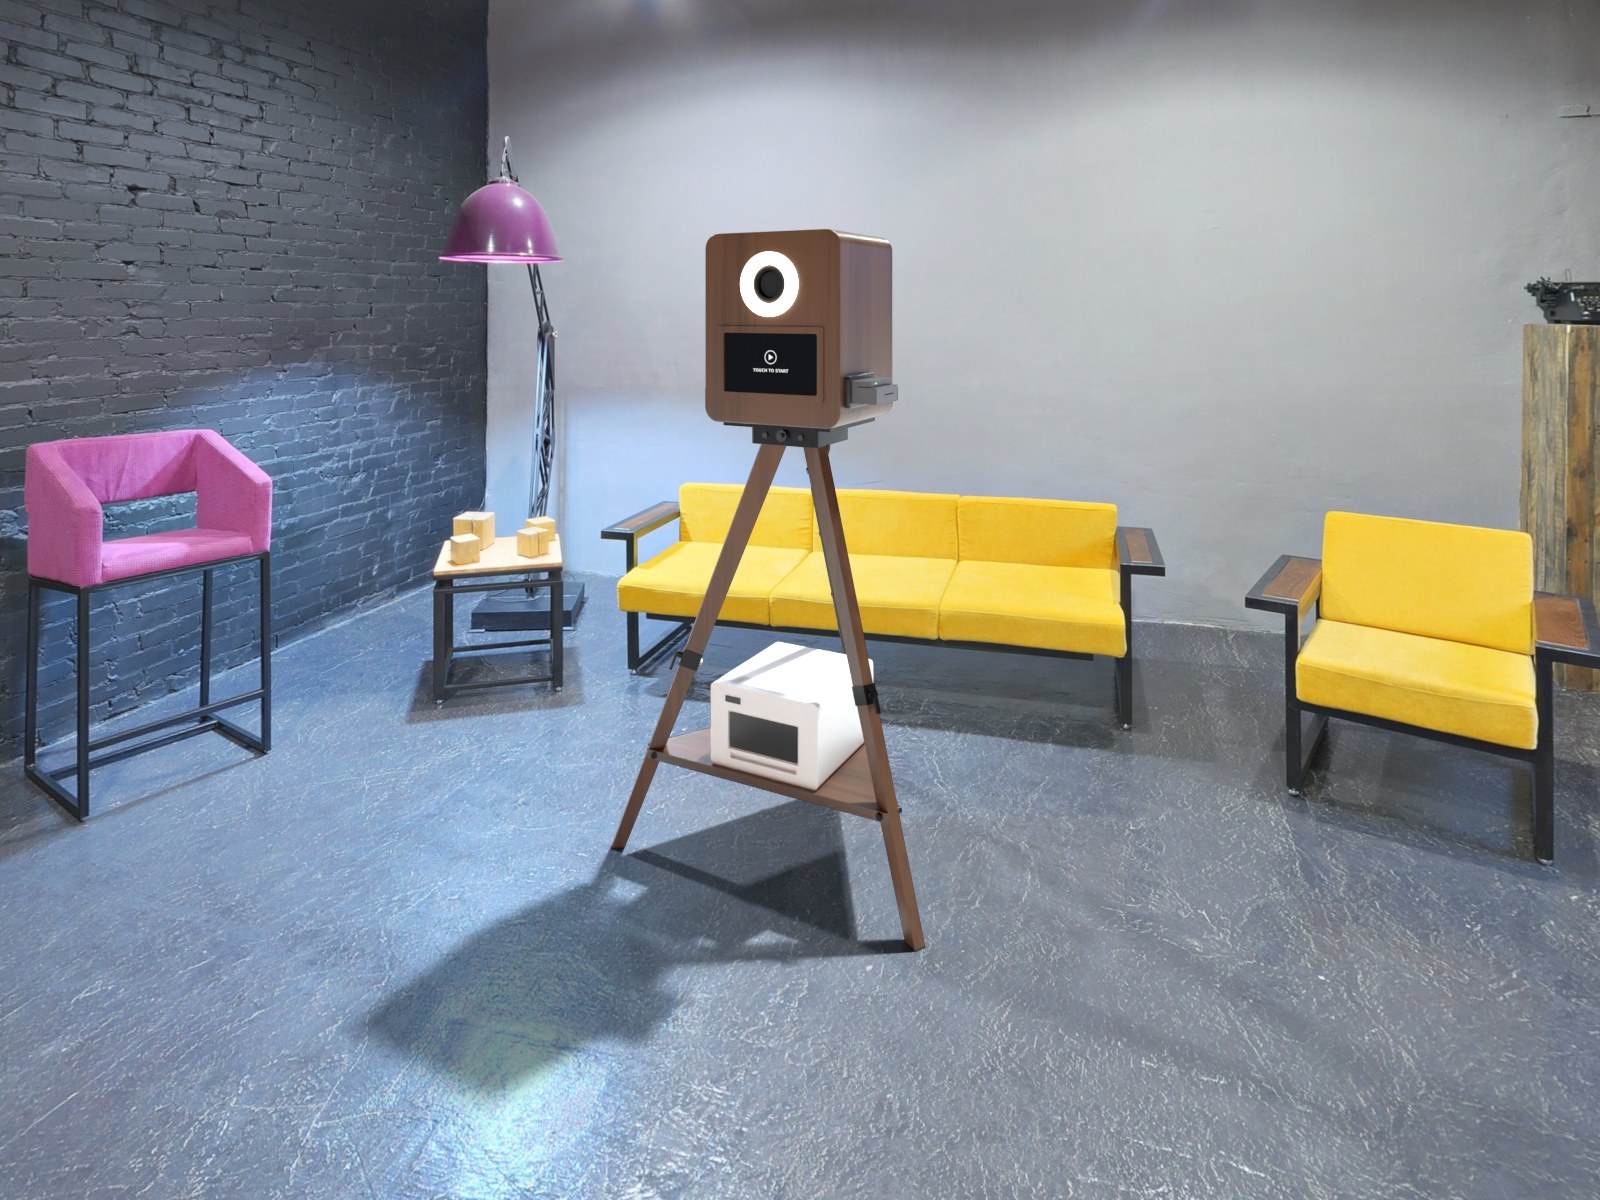
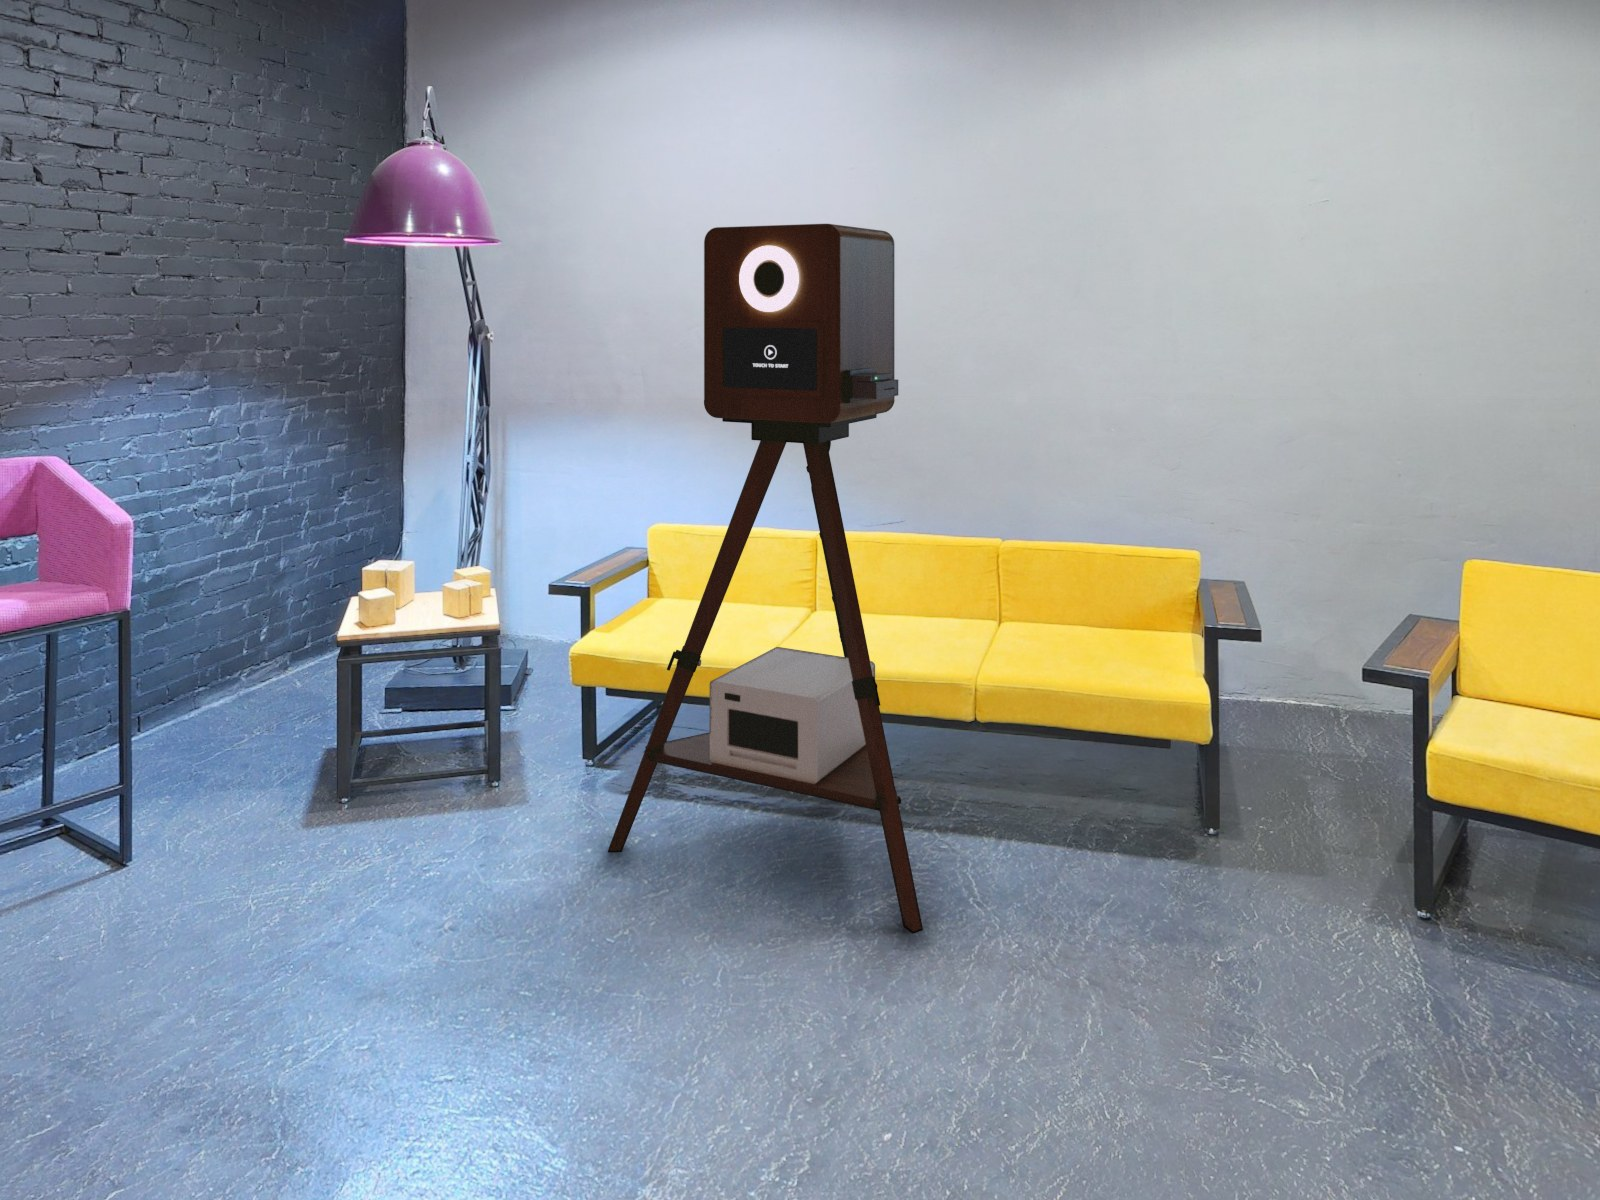
매장 설치 예시(연출 렌더) 최종본 6종 반영 + 홈 띠 카페·부티크·웨딩
- 합성 파이프라인 v3(HDR↔사진 톤 LUT·접지 그림자·경계 띠 보정)로 다시 만든 6장으로 교체
- 부티크·팝업 예시 추가(선반형 2장), 홈 'NEW 목재 포토키오스크' 띠는 삼각대형 2 + 선반형 1
- w800 파생본 해시 갱신, 낡은 파생본 제거

Claude-Session: https://claude.ai/code/session_01HGw79DZARAGa3xCFQSLrQB

diff --git a/products/photo-kiosk.html b/products/photo-kiosk.html
@@ -138,10 +138,12 @@
     <div><span class="idxlabel">설치 예시</span><h2>이런 매장에 이렇게 놓입니다</h2><p>실제 설치 사진이 아닙니다. 공개 실내 사진(CC0)에 포토키오스크 3D 모델을 합성한 연출 이미지로, 매장 분위기에 놓였을 때의 느낌을 보여 드립니다.</p></div>
   </div>
   <div class="pg-grid stg-grid" data-gallery="photo-kiosk-staged">
-    <a class="pg-item" href="../assets/images/covers/photo-kiosk_scene_cafe.jpg" data-w="1600" data-h="1200" data-caption="카페 · 설치 예시(연출 렌더)"><img src="../assets/images/covers/w800/photo-kiosk_scene_cafe-w800-cafd2b5a.jpg" srcset="../assets/images/covers/w800/photo-kiosk_scene_cafe-w800-cafd2b5a.jpg 800w, ../assets/images/covers/photo-kiosk_scene_cafe.jpg 1600w" sizes="(max-width:880px) 48vw, 300px" width="1600" height="1200" alt="카페 설치 예시 — 실내 사진에 포토키오스크 3D 모델을 합성한 연출 렌더(실제 설치 사진 아님)" loading="lazy" decoding="async"><span class="render-tag stg-tag" aria-hidden="true">연출 렌더</span><span class="pg-cap">카페 · 설치 예시(연출 렌더)</span></a>
-    <a class="pg-item" href="../assets/images/covers/photo-kiosk_scene_lounge.jpg" data-w="1600" data-h="1200" data-caption="뷰티숍·라운지 · 설치 예시(연출 렌더)"><img src="../assets/images/covers/w800/photo-kiosk_scene_lounge-w800-1667f8cd.jpg" srcset="../assets/images/covers/w800/photo-kiosk_scene_lounge-w800-1667f8cd.jpg 800w, ../assets/images/covers/photo-kiosk_scene_lounge.jpg 1600w" sizes="(max-width:880px) 48vw, 300px" width="1600" height="1200" alt="뷰티숍·라운지 설치 예시 — 실내 사진에 포토키오스크 3D 모델을 합성한 연출 렌더(실제 설치 사진 아님)" loading="lazy" decoding="async"><span class="render-tag stg-tag" aria-hidden="true">연출 렌더</span><span class="pg-cap">뷰티숍·라운지 · 설치 예시(연출 렌더)</span></a>
-    <a class="pg-item" href="../assets/images/covers/photo-kiosk_scene_lobby.jpg" data-w="1600" data-h="1200" data-caption="호텔 로비 · 설치 예시(연출 렌더)"><img src="../assets/images/covers/w800/photo-kiosk_scene_lobby-w800-646db793.jpg" srcset="../assets/images/covers/w800/photo-kiosk_scene_lobby-w800-646db793.jpg 800w, ../assets/images/covers/photo-kiosk_scene_lobby.jpg 1600w" sizes="(max-width:880px) 48vw, 300px" width="1600" height="1200" alt="호텔 로비 설치 예시 — 실내 사진에 포토키오스크 3D 모델을 합성한 연출 렌더(실제 설치 사진 아님)" loading="lazy" decoding="async"><span class="render-tag stg-tag" aria-hidden="true">연출 렌더</span><span class="pg-cap">호텔 로비 · 설치 예시(연출 렌더)</span></a>
-    <a class="pg-item" href="../assets/images/covers/photo-kiosk_scene_wedding.jpg" data-w="1600" data-h="1200" data-caption="웨딩 연회장 · 설치 예시(연출 렌더)"><img src="../assets/images/covers/w800/photo-kiosk_scene_wedding-w800-ee7f30a5.jpg" srcset="../assets/images/covers/w800/photo-kiosk_scene_wedding-w800-ee7f30a5.jpg 800w, ../assets/images/covers/photo-kiosk_scene_wedding.jpg 1600w" sizes="(max-width:880px) 48vw, 300px" width="1600" height="1200" alt="웨딩 연회장 설치 예시 — 실내 사진에 포토키오스크 3D 모델을 합성한 연출 렌더(실제 설치 사진 아님)" loading="lazy" decoding="async"><span class="render-tag stg-tag" aria-hidden="true">연출 렌더</span><span class="pg-cap">웨딩 연회장 · 설치 예시(연출 렌더)</span></a>
+    <a class="pg-item" href="../assets/images/covers/photo-kiosk_scene_cafe.jpg" data-w="1600" data-h="1200" data-caption="카페 · 설치 예시(연출 렌더)"><img src="../assets/images/covers/w800/photo-kiosk_scene_cafe-w800-08ebb0a8.jpg" srcset="../assets/images/covers/w800/photo-kiosk_scene_cafe-w800-08ebb0a8.jpg 800w, ../assets/images/covers/photo-kiosk_scene_cafe.jpg 1600w" sizes="(max-width:880px) 48vw, 300px" width="1600" height="1200" alt="카페 설치 예시 — 실내 사진에 포토키오스크 3D 모델을 합성한 연출 렌더(실제 설치 사진 아님)" loading="lazy" decoding="async"><span class="render-tag stg-tag" aria-hidden="true">연출 렌더</span><span class="pg-cap">카페 · 설치 예시(연출 렌더)</span></a>
+    <a class="pg-item" href="../assets/images/covers/photo-kiosk_scene_boutique.jpg" data-w="1600" data-h="1200" data-caption="부티크 포토존 · 설치 예시(연출 렌더)"><img src="../assets/images/covers/w800/photo-kiosk_scene_boutique-w800-e383c378.jpg" srcset="../assets/images/covers/w800/photo-kiosk_scene_boutique-w800-e383c378.jpg 800w, ../assets/images/covers/photo-kiosk_scene_boutique.jpg 1600w" sizes="(max-width:880px) 48vw, 300px" width="1600" height="1200" alt="부티크 포토존 설치 예시 — 실내 사진에 포토키오스크 3D 모델을 합성한 연출 렌더(실제 설치 사진 아님)" loading="lazy" decoding="async"><span class="render-tag stg-tag" aria-hidden="true">연출 렌더</span><span class="pg-cap">부티크 포토존 · 설치 예시(연출 렌더)</span></a>
+    <a class="pg-item" href="../assets/images/covers/photo-kiosk_scene_lounge.jpg" data-w="1600" data-h="1200" data-caption="뷰티숍·라운지 · 설치 예시(연출 렌더)"><img src="../assets/images/covers/w800/photo-kiosk_scene_lounge-w800-33a5f3b5.jpg" srcset="../assets/images/covers/w800/photo-kiosk_scene_lounge-w800-33a5f3b5.jpg 800w, ../assets/images/covers/photo-kiosk_scene_lounge.jpg 1600w" sizes="(max-width:880px) 48vw, 300px" width="1600" height="1200" alt="뷰티숍·라운지 설치 예시 — 실내 사진에 포토키오스크 3D 모델을 합성한 연출 렌더(실제 설치 사진 아님)" loading="lazy" decoding="async"><span class="render-tag stg-tag" aria-hidden="true">연출 렌더</span><span class="pg-cap">뷰티숍·라운지 · 설치 예시(연출 렌더)</span></a>
+    <a class="pg-item" href="../assets/images/covers/photo-kiosk_scene_lobby.jpg" data-w="1600" data-h="1200" data-caption="호텔 로비 · 설치 예시(연출 렌더)"><img src="../assets/images/covers/w800/photo-kiosk_scene_lobby-w800-4d01f178.jpg" srcset="../assets/images/covers/w800/photo-kiosk_scene_lobby-w800-4d01f178.jpg 800w, ../assets/images/covers/photo-kiosk_scene_lobby.jpg 1600w" sizes="(max-width:880px) 48vw, 300px" width="1600" height="1200" alt="호텔 로비 설치 예시 — 실내 사진에 포토키오스크 3D 모델을 합성한 연출 렌더(실제 설치 사진 아님)" loading="lazy" decoding="async"><span class="render-tag stg-tag" aria-hidden="true">연출 렌더</span><span class="pg-cap">호텔 로비 · 설치 예시(연출 렌더)</span></a>
+    <a class="pg-item" href="../assets/images/covers/photo-kiosk_scene_wedding.jpg" data-w="1600" data-h="1200" data-caption="웨딩 연회장 · 설치 예시(연출 렌더)"><img src="../assets/images/covers/w800/photo-kiosk_scene_wedding-w800-052205ae.jpg" srcset="../assets/images/covers/w800/photo-kiosk_scene_wedding-w800-052205ae.jpg 800w, ../assets/images/covers/photo-kiosk_scene_wedding.jpg 1600w" sizes="(max-width:880px) 48vw, 300px" width="1600" height="1200" alt="웨딩 연회장 설치 예시 — 실내 사진에 포토키오스크 3D 모델을 합성한 연출 렌더(실제 설치 사진 아님)" loading="lazy" decoding="async"><span class="render-tag stg-tag" aria-hidden="true">연출 렌더</span><span class="pg-cap">웨딩 연회장 · 설치 예시(연출 렌더)</span></a>
+    <a class="pg-item" href="../assets/images/covers/photo-kiosk_scene_popup.jpg" data-w="1600" data-h="1200" data-caption="팝업 행사장 · 설치 예시(연출 렌더)"><img src="../assets/images/covers/w800/photo-kiosk_scene_popup-w800-95041376.jpg" srcset="../assets/images/covers/w800/photo-kiosk_scene_popup-w800-95041376.jpg 800w, ../assets/images/covers/photo-kiosk_scene_popup.jpg 1600w" sizes="(max-width:880px) 48vw, 300px" width="1600" height="1200" alt="팝업 행사장 설치 예시 — 실내 사진에 포토키오스크 3D 모델을 합성한 연출 렌더(실제 설치 사진 아님)" loading="lazy" decoding="async"><span class="render-tag stg-tag" aria-hidden="true">연출 렌더</span><span class="pg-cap">팝업 행사장 · 설치 예시(연출 렌더)</span></a>
   </div>
 </div></section>
 <section class="pd-fit"><div class="wrap fit-grid">

diff --git a/index.html b/index.html
@@ -173,9 +173,9 @@
 <!-- GEN:home-kiosk-staged --><section class="h-kstage" id="kiosk-new" aria-labelledby="ksTitle"><div class="wrap">
   <div class="h-head"><div><span class="idxlabel">NEW · 목재 포토키오스크</span><h2 id="ksTitle">매장에 들이는 <i>포토키오스크</i></h2><p>진한 월넛 원목 헤드를 삼각대에 세우거나 카운터에 올려 씁니다. 아래 사진은 실제 설치 사진이 아니라, 매장 실내 사진에 3D 모델을 합성한 설치 예시(연출 렌더)입니다.</p></div><a class="h-link" href="products/photo-kiosk.html#staged">설치 예시 더 보기 →</a></div>
   <div class="ks-grid">
-    <figure class="ks-item"><img src="assets/images/covers/w800/photo-kiosk_scene_cafe-w800-cafd2b5a.jpg" srcset="assets/images/covers/w800/photo-kiosk_scene_cafe-w800-cafd2b5a.jpg 800w, assets/images/covers/photo-kiosk_scene_cafe.jpg 1600w" sizes="(max-width:880px) 48vw, 300px" width="1600" height="1200" alt="카페 설치 예시 — 실내 사진에 포토키오스크 3D 모델을 합성한 연출 렌더(실제 설치 사진 아님)" loading="lazy" decoding="async"><span class="render-tag" aria-hidden="true">연출 렌더</span><figcaption>카페 · 설치 예시(연출 렌더)</figcaption></figure>
-    <figure class="ks-item"><img src="assets/images/covers/w800/photo-kiosk_scene_lobby-w800-646db793.jpg" srcset="assets/images/covers/w800/photo-kiosk_scene_lobby-w800-646db793.jpg 800w, assets/images/covers/photo-kiosk_scene_lobby.jpg 1600w" sizes="(max-width:880px) 48vw, 300px" width="1600" height="1200" alt="호텔 로비 설치 예시 — 실내 사진에 포토키오스크 3D 모델을 합성한 연출 렌더(실제 설치 사진 아님)" loading="lazy" decoding="async"><span class="render-tag" aria-hidden="true">연출 렌더</span><figcaption>호텔 로비 · 설치 예시(연출 렌더)</figcaption></figure>
-    <figure class="ks-item"><img src="assets/images/covers/w800/photo-kiosk_scene_wedding-w800-ee7f30a5.jpg" srcset="assets/images/covers/w800/photo-kiosk_scene_wedding-w800-ee7f30a5.jpg 800w, assets/images/covers/photo-kiosk_scene_wedding.jpg 1600w" sizes="(max-width:880px) 48vw, 300px" width="1600" height="1200" alt="웨딩 연회장 설치 예시 — 실내 사진에 포토키오스크 3D 모델을 합성한 연출 렌더(실제 설치 사진 아님)" loading="lazy" decoding="async"><span class="render-tag" aria-hidden="true">연출 렌더</span><figcaption>웨딩 연회장 · 설치 예시(연출 렌더)</figcaption></figure>
+    <figure class="ks-item"><img src="assets/images/covers/w800/photo-kiosk_scene_cafe-w800-08ebb0a8.jpg" srcset="assets/images/covers/w800/photo-kiosk_scene_cafe-w800-08ebb0a8.jpg 800w, assets/images/covers/photo-kiosk_scene_cafe.jpg 1600w" sizes="(max-width:880px) 48vw, 300px" width="1600" height="1200" alt="카페 설치 예시 — 실내 사진에 포토키오스크 3D 모델을 합성한 연출 렌더(실제 설치 사진 아님)" loading="lazy" decoding="async"><span class="render-tag" aria-hidden="true">연출 렌더</span><figcaption>카페 · 설치 예시(연출 렌더)</figcaption></figure>
+    <figure class="ks-item"><img src="assets/images/covers/w800/photo-kiosk_scene_boutique-w800-e383c378.jpg" srcset="assets/images/covers/w800/photo-kiosk_scene_boutique-w800-e383c378.jpg 800w, assets/images/covers/photo-kiosk_scene_boutique.jpg 1600w" sizes="(max-width:880px) 48vw, 300px" width="1600" height="1200" alt="부티크 포토존 설치 예시 — 실내 사진에 포토키오스크 3D 모델을 합성한 연출 렌더(실제 설치 사진 아님)" loading="lazy" decoding="async"><span class="render-tag" aria-hidden="true">연출 렌더</span><figcaption>부티크 포토존 · 설치 예시(연출 렌더)</figcaption></figure>
+    <figure class="ks-item"><img src="assets/images/covers/w800/photo-kiosk_scene_wedding-w800-052205ae.jpg" srcset="assets/images/covers/w800/photo-kiosk_scene_wedding-w800-052205ae.jpg 800w, assets/images/covers/photo-kiosk_scene_wedding.jpg 1600w" sizes="(max-width:880px) 48vw, 300px" width="1600" height="1200" alt="웨딩 연회장 설치 예시 — 실내 사진에 포토키오스크 3D 모델을 합성한 연출 렌더(실제 설치 사진 아님)" loading="lazy" decoding="async"><span class="render-tag" aria-hidden="true">연출 렌더</span><figcaption>웨딩 연회장 · 설치 예시(연출 렌더)</figcaption></figure>
   </div>
   <div class="ks-cta"><a class="btn" href="#contact" data-pick-product="포토키오스크">포토키오스크 견적 받기 <span aria-hidden="true">→</span></a><a class="h-link" href="products/photo-kiosk.html#configs">삼각대형·선반형 보기 →</a></div>
 </div></section><!-- /GEN:home-kiosk-staged -->
